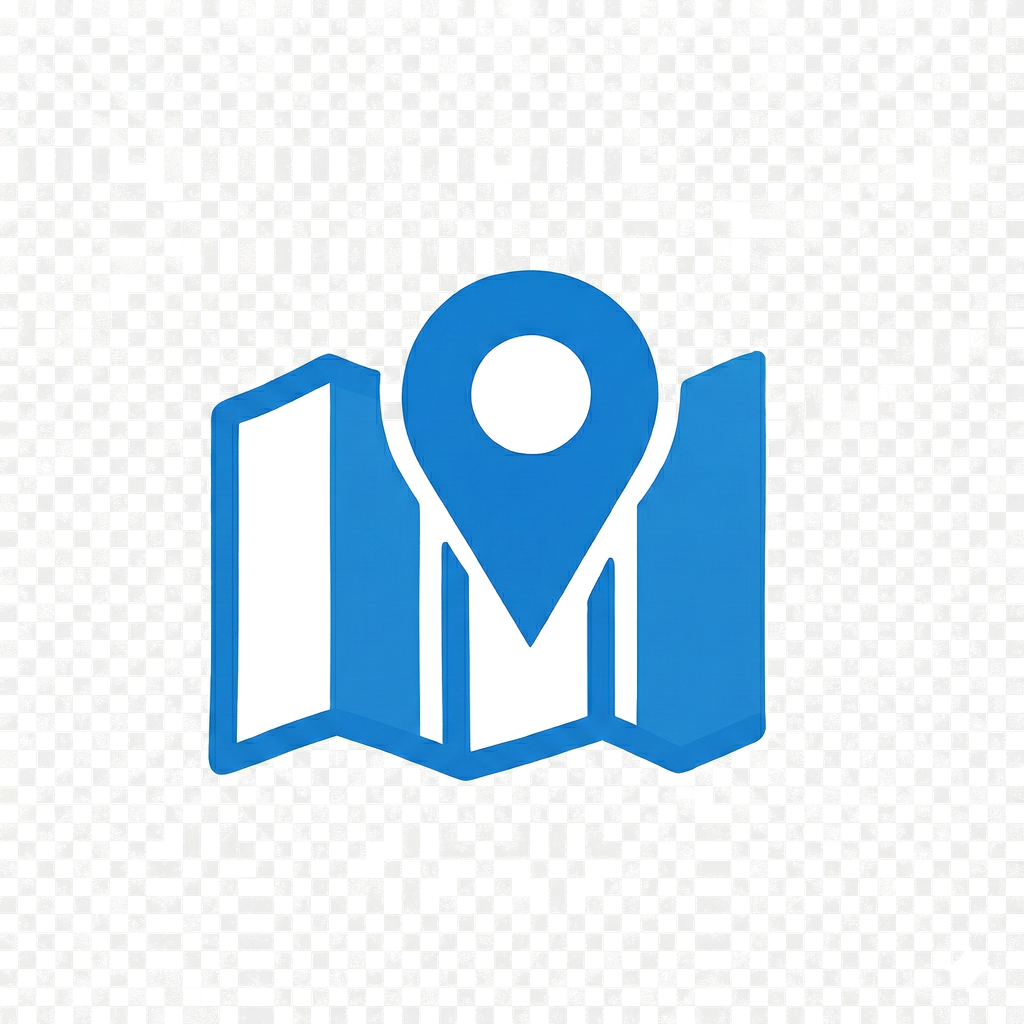
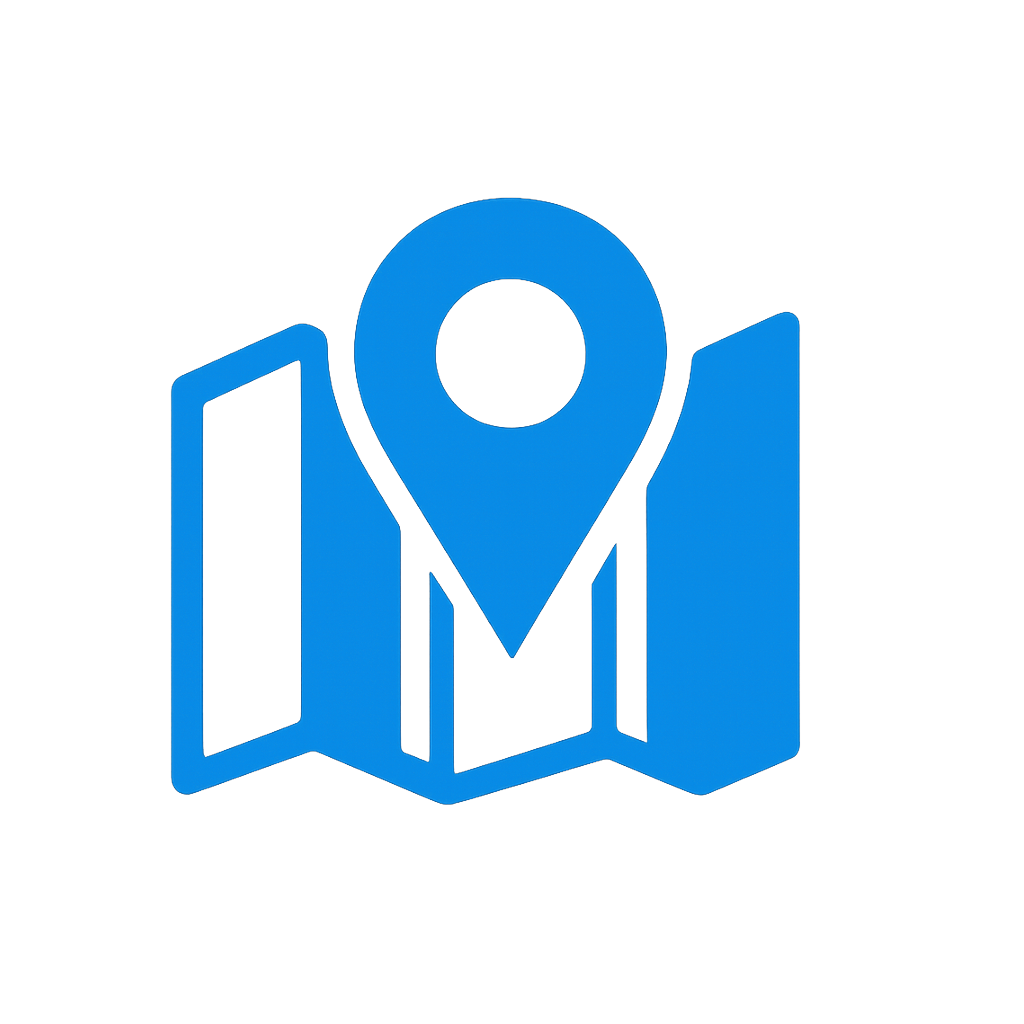
feat: プロフィール画面のスクロール改善＆フォロー数の匿名閲覧対応
- Instagram/note風にプロフィールとタブもスクロールに追従
- MapsTab/CollectionsTabにListHeaderComponent propを追加
- followsテーブルのRLSを修正し未ログインでもフォロー数を表示
- アプリアイコンを90%サイズに調整（machikore8.png）

🤖 Generated with [Claude Code](https://claude.com/claude-code)

Changed region(s): [[0.1562, 0.1875, 0.7812, 0.7812]]

diff --git a/src/widgets/following-map-feed/ui/FollowingMapFeed.tsx b/src/widgets/following-map-feed/ui/FollowingMapFeed.tsx
@@ -7,17 +7,23 @@
  * - 未ログイン時はログイン促進メッセージを表示
  */
 
-import React, { useCallback, useMemo } from 'react';
-import { FlatList, RefreshControl, ActivityIndicator, View, Text } from 'react-native';
-import { useRouter } from 'expo-router';
-import { useInfiniteQuery } from '@tanstack/react-query';
 import { MapCard } from '@/entities/map';
 import { useUserStore } from '@/entities/user';
-import { AsyncBoundary } from '@/shared/ui';
-import { colors } from '@/shared/config';
 import { QUERY_KEYS } from '@/shared/api/query-client';
 import { getFollowingUsersMaps } from '@/shared/api/supabase';
+import { colors } from '@/shared/config';
 import type { MapWithUser } from '@/shared/types';
+import { AsyncBoundary } from '@/shared/ui';
+import { useInfiniteQuery } from '@tanstack/react-query';
+import { useRouter } from 'expo-router';
+import React, { useCallback, useMemo } from 'react';
+import {
+  ActivityIndicator,
+  FlatList,
+  RefreshControl,
+  Text,
+  View,
+} from 'react-native';
 
 const PAGE_SIZE = 10;
 
@@ -58,25 +64,40 @@ export function FollowingMapFeed() {
     return data?.pages.flatMap((page) => page) ?? [];
   }, [data]);
 
-  const handleMapPress = useCallback((mapId: string) => {
-    router.push(`/(tabs)/discover/maps/${mapId}`);
-  }, [router]);
+  const handleMapPress = useCallback(
+    (mapId: string) => {
+      router.push(`/(tabs)/discover/maps/${mapId}`);
+    },
+    [router]
+  );
 
-  const handleUserPress = useCallback((userId: string) => {
-    router.push(`/(tabs)/discover/users/${userId}`);
-  }, [router]);
+  const handleUserPress = useCallback(
+    (userId: string) => {
+      router.push(`/(tabs)/discover/users/${userId}`);
+    },
+    [router]
+  );
 
-  const handleEditMap = useCallback((mapId: string) => {
-    router.push(`/edit-map/${mapId}`);
-  }, [router]);
+  const handleEditMap = useCallback(
+    (mapId: string) => {
+      router.push(`/edit-map/${mapId}`);
+    },
+    [router]
+  );
 
-  const handleCommentPress = useCallback((mapId: string) => {
-    router.push(`/(tabs)/discover/comments/maps/${mapId}`);
-  }, [router]);
+  const handleCommentPress = useCallback(
+    (mapId: string) => {
+      router.push(`/(tabs)/discover/comments/maps/${mapId}`);
+    },
+    [router]
+  );
 
-  const handleArticlePress = useCallback((mapId: string) => {
-    router.push(`/(tabs)/discover/articles/maps/${mapId}`);
-  }, [router]);
+  const handleArticlePress = useCallback(
+    (mapId: string) => {
+      router.push(`/(tabs)/discover/articles/maps/${mapId}`);
+    },
+    [router]
+  );
 
   const handleEndReached = useCallback(() => {
     if (hasNextPage && !isFetchingNextPage) {
@@ -98,7 +119,7 @@ export function FollowingMapFeed() {
     return (
       <View className="flex-1 items-center justify-center px-6">
         <Text className="text-foreground-secondary dark:text-dark-foreground-secondary text-center">
-          ログインするとフォロー中のユーザーのマップが表示されます
+          フォロー中のユーザーはいません
         </Text>
       </View>
     );

diff --git a/src/pages/user-profile/ui/UserProfilePage.tsx b/src/pages/user-profile/ui/UserProfilePage.tsx
@@ -8,9 +8,11 @@
  *
  * 注意: 設定・スケジュールボタンはMyPage専用のため、
  * このページでは表示しない（データ競合回避のため）
+ *
+ * Instagram/note風にプロフィールとタブフィルターもスクロールに追従
  */
 
-import React, { useState } from 'react';
+import React, { useState, useMemo } from 'react';
 import { View } from 'react-native';
 import { useLocalSearchParams } from 'expo-router';
 import { MyPageProfile } from '@/widgets/mypage-profile';
@@ -28,13 +30,11 @@ export function UserProfilePage() {
   // 自分の場合はMyPageTabMode、他人の場合はUserProfileTabMode
   const [tabMode, setTabMode] = useState<MyPageTabMode | UserProfileTabMode>('maps');
 
-  return (
-    <View className="flex-1 bg-background-secondary dark:bg-dark-background-secondary">
-      <PageHeader title="プロフィール" />
-
+  // FlatListのヘッダーとしてプロフィール+タブフィルターを渡す
+  const listHeader = useMemo(() => (
+    <View>
       {/* プロフィールセクション */}
       <MyPageProfile userId={id} />
-
       {/* タブフィルター（自分の場合はブックマーク付き） */}
       {isOwner ? (
         <MyPageTabFilter
@@ -49,11 +49,28 @@ export function UserProfilePage() {
           userId={id}
         />
       )}
+    </View>
+  ), [id, isOwner, tabMode]);
 
-      {/* タブコンテンツ（各タブが独自にスクロール） */}
+  return (
+    <View className="flex-1 bg-background-secondary dark:bg-dark-background-secondary">
+      <PageHeader title="プロフィール" />
+
+      {/* タブコンテンツ（プロフィール+タブフィルター+コンテンツが一緒にスクロール） */}
       <View className="flex-1">
-        {tabMode === 'maps' && <MapsTab userId={id} currentUserId={currentUserId} />}
-        {tabMode === 'collections' && <CollectionsTab userId={id} />}
+        {tabMode === 'maps' && (
+          <MapsTab
+            userId={id}
+            currentUserId={currentUserId}
+            ListHeaderComponent={listHeader}
+          />
+        )}
+        {tabMode === 'collections' && (
+          <CollectionsTab
+            userId={id}
+            ListHeaderComponent={listHeader}
+          />
+        )}
       </View>
     </View>
   );

diff --git a/src/pages/mypage/ui/MyPage.tsx b/src/pages/mypage/ui/MyPage.tsx
@@ -3,9 +3,11 @@
  *
  * FSDの原則：Pageレイヤーは Widgetの組み合わせのみ
  * 認証済みユーザーのプロフィール、統計、友達などを表示
+ *
+ * Instagram/note風にプロフィールとタブフィルターもスクロールに追従
  */
 
-import React, { useState } from 'react';
+import React, { useState, useMemo } from 'react';
 import { View } from 'react-native';
 import { SafeAreaView } from 'react-native-safe-area-context';
 import { useRouter } from 'expo-router';
@@ -28,23 +30,31 @@ export function MyPage() {
     router.push('/schedule');
   };
 
+  // FlatListのヘッダーとしてプロフィール+タブフィルターを渡す
+  const listHeader = useMemo(() => (
+    <View>
+      {/* プロフィールセクション */}
+      <MyPageProfile userId={currentUserId} />
+      {/* タブフィルター */}
+      <MyPageTabFilter tabMode={tabMode} onTabModeChange={setTabMode} userId={currentUserId ?? undefined} />
+    </View>
+  ), [currentUserId, tabMode]);
+
   return (
     <SafeAreaView className="flex-1 bg-surface dark:bg-dark-surface" edges={['top']}>
-      {/* ヘッダーバー */}
+      {/* ヘッダーバー（固定） */}
       <MyPageHeader
         onSettingsPress={handleSettingsPress}
         onSchedulePress={handleSchedulePress}
       />
 
-      {/* プロフィールセクション */}
-      <MyPageProfile userId={currentUserId} />
-
-      {/* タブフィルター */}
-      <MyPageTabFilter tabMode={tabMode} onTabModeChange={setTabMode} userId={currentUserId} />
-
-      {/* タブコンテンツ（マップ一覧） */}
+      {/* タブコンテンツ（プロフィール+タブフィルター+マップ一覧が一緒にスクロール） */}
       <View className="flex-1">
-        <MapsTab userId={currentUserId} currentUserId={currentUserId} />
+        <MapsTab
+          userId={currentUserId}
+          currentUserId={currentUserId}
+          ListHeaderComponent={listHeader}
+        />
       </View>
     </SafeAreaView>
   );

diff --git a/src/widgets/mypage-tab-content/ui/MapsTab.tsx b/src/widgets/mypage-tab-content/ui/MapsTab.tsx
@@ -25,6 +25,10 @@ interface MapsTabProps {
   userId: string | null;
   /** 現在ログイン中のユーザーID */
   currentUserId?: string | null;
+  /** リストのヘッダーコンポーネント（プロフィール+タブフィルター） */
+  ListHeaderComponent?: React.ReactElement;
+  /** スクロールイベントコールバック */
+  onScroll?: (event: any) => void;
 }
 
 interface MyPageMapCardProps {
@@ -257,7 +261,7 @@ function MyPageMapCard({
   );
 }
 
-export function MapsTab({ userId, currentUserId }: MapsTabProps) {
+export function MapsTab({ userId, currentUserId, ListHeaderComponent, onScroll }: MapsTabProps) {
   const router = useRouter();
   const currentTab = useCurrentTab();
   const { data: maps, isLoading, error } = useUserMaps(userId, { currentUserId });
@@ -322,6 +326,9 @@ export function MapsTab({ userId, currentUserId }: MapsTabProps) {
               onUserPress={handleUserPress}
             />
           )}
+          ListHeaderComponent={ListHeaderComponent}
+          onScroll={onScroll}
+          scrollEventThrottle={16}
           className="bg-surface dark:bg-dark-surface"
           contentContainerClassName="flex-grow"
         />

diff --git a/src/widgets/mypage-tab-content/ui/CollectionsTab.tsx b/src/widgets/mypage-tab-content/ui/CollectionsTab.tsx
@@ -20,6 +20,8 @@ import type { Collection } from '@/shared/api/supabase/collections';
 
 interface CollectionsTabProps {
   userId: string | null;
+  /** リストのヘッダーコンポーネント（プロフィール+タブフィルター） */
+  ListHeaderComponent?: React.ReactElement;
 }
 
 interface CollectionCardProps {
@@ -114,7 +116,7 @@ function CollectionCard({ collection, isOwner, onPress, onEdit, onDelete }: Coll
   );
 }
 
-export function CollectionsTab({ userId }: CollectionsTabProps) {
+export function CollectionsTab({ userId, ListHeaderComponent }: CollectionsTabProps) {
   const router = useRouter();
   const currentTab = useCurrentTab();
   const currentUserId = useCurrentUserId();
@@ -185,6 +187,7 @@ export function CollectionsTab({ userId }: CollectionsTabProps) {
           onDelete={handleDelete}
         />
       )}
+      ListHeaderComponent={ListHeaderComponent}
       className="bg-surface dark:bg-dark-surface"
       contentContainerClassName="flex-grow"
       ListEmptyComponent={renderEmptyState}

diff --git a/app.config.js b/app.config.js
@@ -4,7 +4,7 @@ module.exports = {
     slug: 'machikore',
     version: '1.0.0',
     orientation: 'portrait',
-    icon: './assets/images/machikore7.png',
+    icon: './assets/images/machikore8.png',
     scheme: 'machikore',
     userInterfaceStyle: 'automatic',
     newArchEnabled: true,
